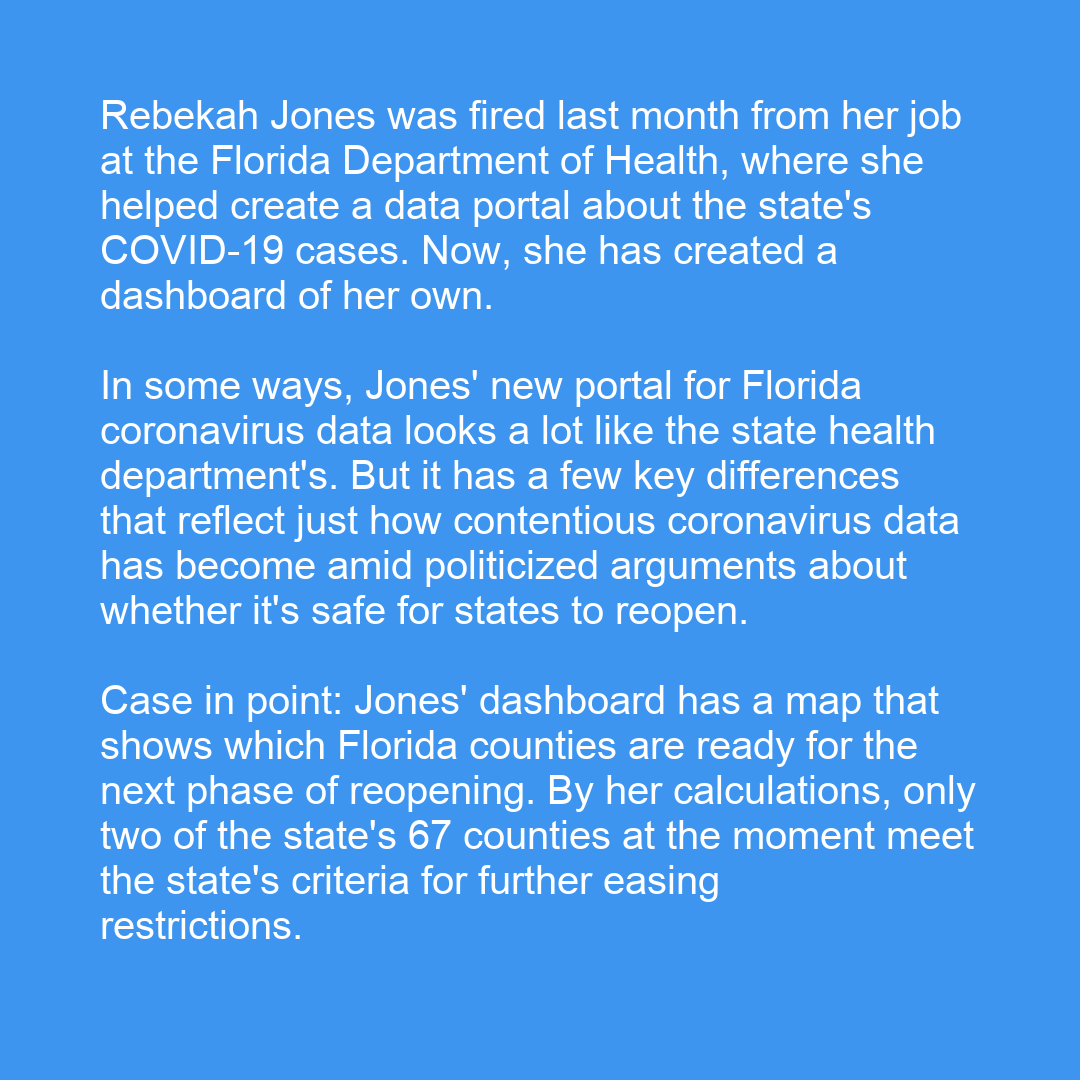
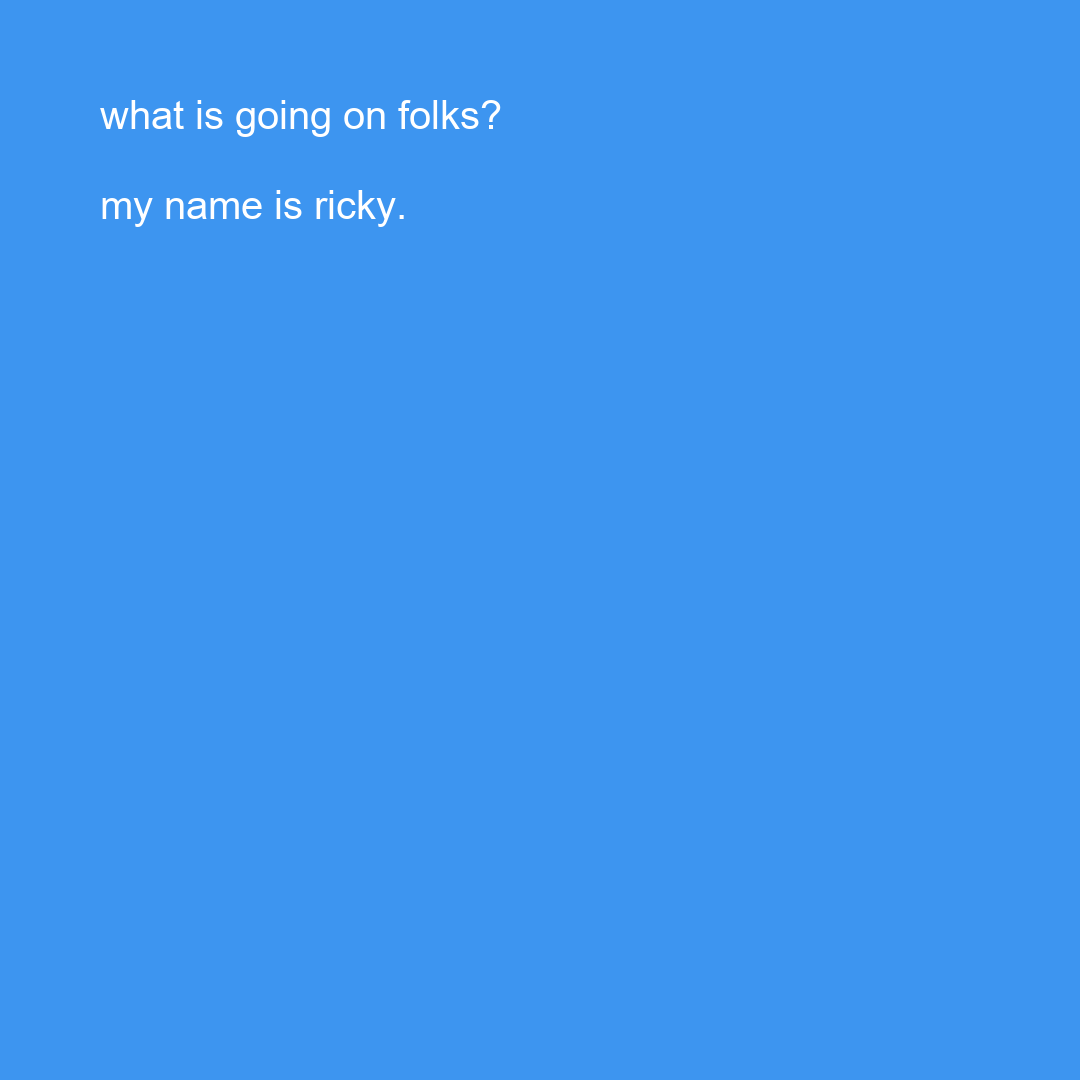
connected form to python script to make image

Changed region(s): [[0.0917, 0.3361, 0.8861, 0.5806], [0.0917, 0.6111, 0.9167, 0.8861], [0.0917, 0.0917, 0.8861, 0.3056]]

diff --git a/templates/index.html b/templates/index.html
@@ -2,7 +2,7 @@
 <html>
 <head>
 	<title>note2story</title>
-	<link rel="stylesheet" type="text/css" href="styles.css">
+	<link rel="stylesheet" href="{{ url_for('static', filename='styles.css') }}">
 	<link href="https://fonts.googleapis.com/css2?family=Source+Sans+Pro&display=swap" rel="stylesheet">
 	<meta name="viewport" content="width=device-width,initial-scale=1">
 </head>
@@ -22,7 +22,7 @@
 				<h2>paste your note below</h2>
 			</div>
 
-			<form action="/convert" method="POST" class="section" id="textarea-and-button-container">
+			<form action="/results" method="POST" class="section" id="textarea-and-button-container">
 				<div id="textarea-container">
 					<textarea id="note-text" name="note-text" placeholder="paste here!"></textarea>
 				</div>
@@ -35,6 +35,7 @@
 		</div>
 		
 	</div>
+
 
 </body>
 

diff --git a/static/styles.css b/static/styles.css
@@ -6,8 +6,8 @@
 
 html, body
 {
-    height: 100vh;
-    width: 200vw;
+    height: 200vh;
+    width: 100vw;
     scroll-behavior: smooth;
 }
 

diff --git a/templates/results.html b/templates/results.html
@@ -1,0 +1,9 @@
+<!DOCTYPE html>
+<html>
+<head>
+	<title>Results</title>
+</head>
+<body>
+<img src="output_1.png">
+</body>
+</html>

diff --git a/note2story.py b/note2story.py
@@ -3,7 +3,7 @@ from PIL import Image, ImageDraw, ImageFont
 import os
 import textwrap
 
-def convert(input_filename = 'input.txt', output_name='output', output_filetype='.png', bg_color = 'blue', font_name = 'Arial.ttf', font_size=40, font_color='white', alignment='left', shape='post'):
+def convert(input_text = 'hello world', output_name='output', output_filetype='.png', bg_color = 'blue', font_name = 'Arial.ttf', font_size=40, font_color='white', alignment='left', shape='post'):
 	"Draw a text on an Image, saves it, show it"
 
 	#Details of colors for background and font
@@ -35,8 +35,11 @@ def convert(input_filename = 'input.txt', output_name='output', output_filetype=
 	fnt = ImageFont.truetype(font_name, font_size)
 
 	#Read lines of the text file
-	with open(input_filename) as file:
-		lines = file.readlines()
+	# with open(input_filename) as file: 
+	# 	lines = file.readlines()
+
+	#used to take string from the input rather than a file
+	lines = input_text.splitlines(keepends = True)
 	
 	#various size variables
 	character_limit_list = []

diff --git a/website.py b/website.py
@@ -1,0 +1,24 @@
+from flask import Flask, redirect, url_for, request, render_template, send_file
+from note2story import convert
+
+
+app = Flask(__name__)
+
+def serve_pil_image(pil_img):
+    img_io = BytesIO()
+    pil_img.save(img_io, 'JPEG', quality=70)
+    img_io.seek(0)
+    return send_file(img_io, mimetype='image/jpeg')
+
+@app.route("/")
+def index():
+	return render_template('index.html')
+
+@app.route("/results", methods=['POST'])
+def results():
+	text = request.form['note-text']
+	convert(input_text = text)
+	return render_template('results.html')
+
+if __name__ == "__main__":
+	app.run()

diff --git a/test_run.py b/test_run.py
@@ -2,4 +2,4 @@ from note2story import convert
 
 convert(shape='story', bg_color='red', output_name='goodbye')
 
-convert(output_name='hello', input_filename='news_article.txt')
+convert(output_name='hello', input_text='what is going on folks?\n\n\n\n my name is ricky.')
